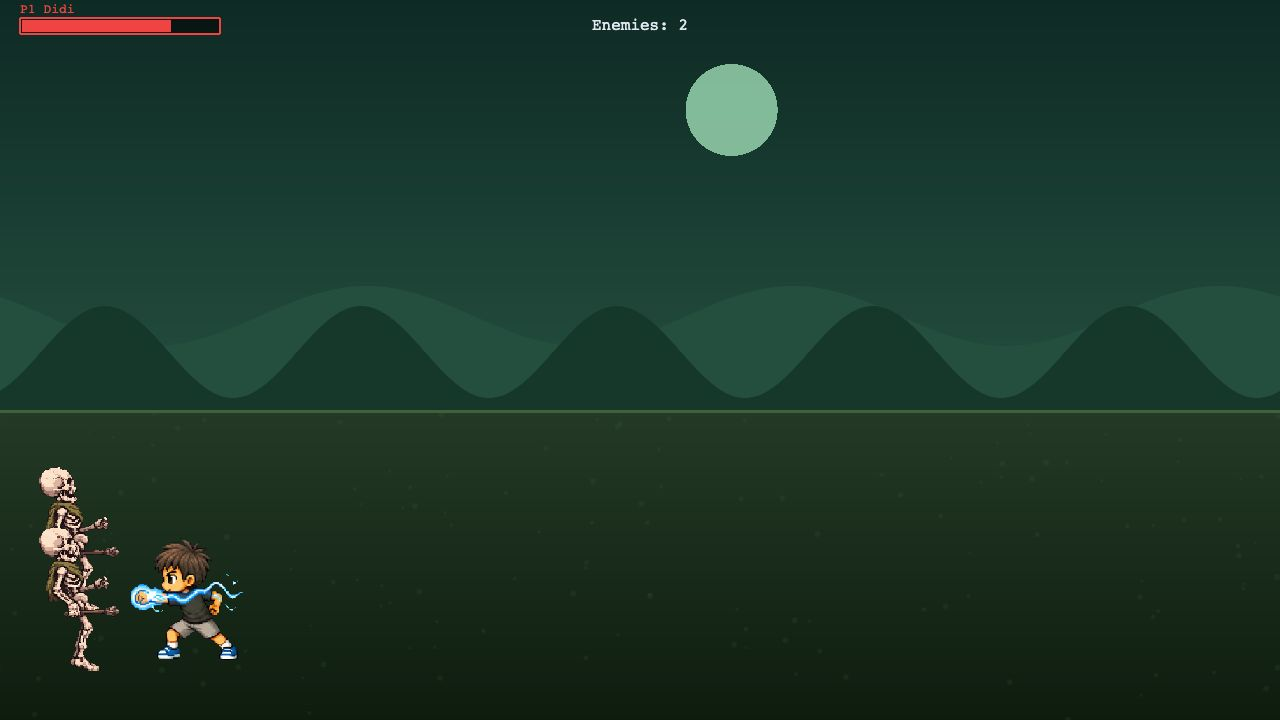
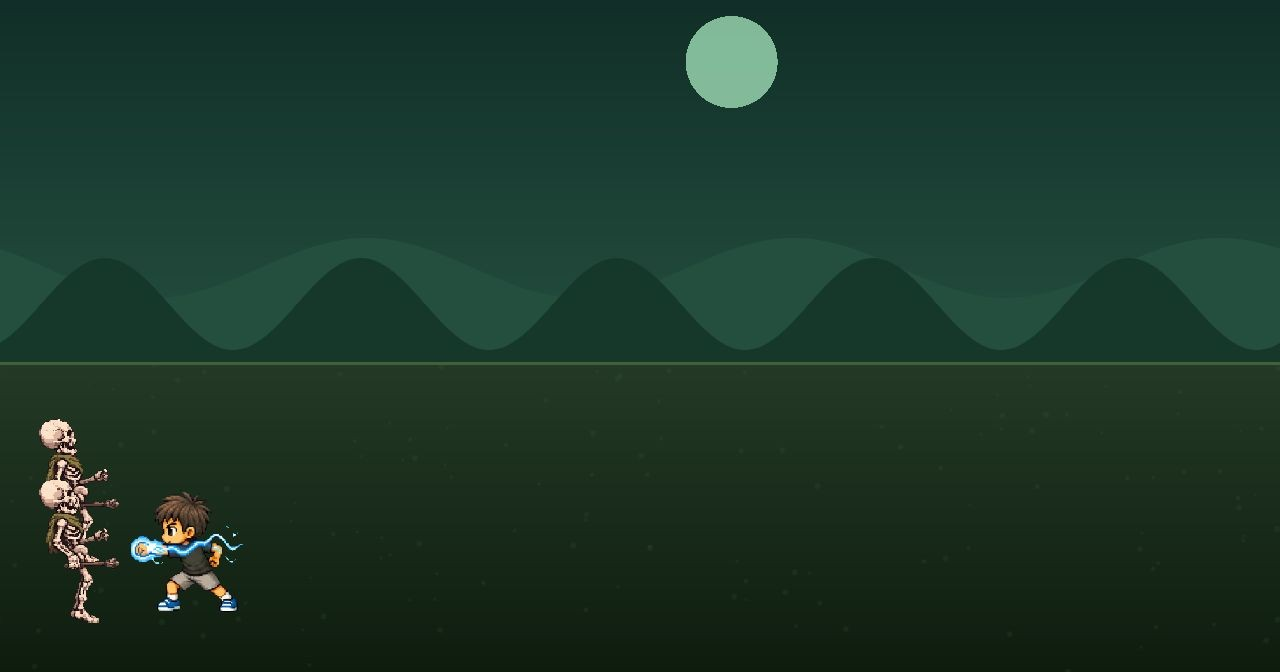
Game article: June screenshot, villain gallery, captions and a link to the game at the end

diff --git a/notes/permanent/fable-5-2-one-shotted-my-nephews-dream-game.md b/notes/permanent/fable-5-2-one-shotted-my-nephews-dream-game.md
@@ -2,7 +2,7 @@
 title: "Fable 5.2 One-Shotted My Nephew's Dream Game"
 slug: fable-5-2-one-shotted-my-nephews-dream-game
 date: 2026-11-10 06:50
-modified: 2026-11-10 08:30
+modified: 2026-11-10 09:20
 summary: "LLMs can make complete games that are fun, another insane milestone"
 cover: /_media/aidens-revenge/title.jpg
 category: essay
@@ -28,6 +28,8 @@ He had already drawn up the game design docs. There were to be 5 selectable hero
 At the time - around January 2026 - building an indie game from scratch was a pretty unreasonable ask for a birthday present, and I did warn him to temper his expectations. Still, I thought it would be a fun exercise to test the agentic tools at my disposal.
 
 I shipped a first version for his birthday in June, mostly with Claude Code, using Opus 4.8 and Fable 5. It worked, but it wasn't worth playing for more than a couple of minutes.
+
+<figure style="margin:1.5em 0"><a href="../_media/aidens-revenge/first-version-fight.jpg"><img src="../_media/aidens-revenge/first-version-fight.jpg" alt="The June version: a single hero fighting two skeletons on a plain green field" style="width:100%;height:auto;display:block;margin:0;border-radius:6px"></a><figcaption style="font-size:0.85em;text-align:center;margin-top:6px">The June version.</figcaption></figure>
 
 Aiden was appreciative, but it clearly wasn't the game he'd imagined.
 
@@ -119,21 +121,33 @@ The very last rescue is Tai Ma, their great-grandmother, who died earlier in the
 
 Here are a few of Aiden's drawings next to the sprites the incredible ChatGPT Images 2.5 made from them.
 
-**Uncle Lex**: "electric guitar".
+<figure style="margin:1.5em 0"><a href="../_media/aidens-revenge/hero-03-uncle-lex.jpg"><img src="../_media/aidens-revenge/hero-03-uncle-lex.jpg" alt="Aiden's drawing of Uncle Lex next to the Uncle Lex sprite" style="width:100%;height:auto;display:block;margin:0;border-radius:6px"></a><figcaption style="font-size:0.85em;text-align:center;margin-top:6px"><strong>Uncle Lex</strong>: "electric guitar".</figcaption></figure>
 
-![Aiden's drawing of Uncle Lex next to the Uncle Lex sprite](../_media/aidens-revenge/hero-03-uncle-lex.jpg)
+<figure style="margin:1.5em 0"><a href="../_media/aidens-revenge/hero-08-doggo.jpg"><img src="../_media/aidens-revenge/hero-08-doggo.jpg" alt="Aiden's drawing of Doggo next to the Doggo sprite" style="width:100%;height:auto;display:block;margin:0;border-radius:6px"></a><figcaption style="font-size:0.85em;text-align:center;margin-top:6px"><strong>Doggo </strong>(my dog): she bites, and the spiky tail is her kick.</figcaption></figure>
 
-**Doggo** (my dog): she bites, and the spiky tail is her kick.
+<figure style="margin:1.5em 0"><a href="../_media/aidens-revenge/battle-wagon.jpg"><img src="../_media/aidens-revenge/battle-wagon.jpg" alt="Aiden's drawing of the Battle Wagon next to the Battle Wagon sprite" style="width:100%;height:auto;display:block;margin:0;border-radius:6px"></a><figcaption style="font-size:0.85em;text-align:center;margin-top:6px"><strong>The Battle Wagon</strong>: the villains steal it, which kicks off the whole game. Claude also decided that it should be an occasional power-up, where you grab the horn and it drives across the screen. That works.</figcaption></figure>
 
-![Aiden's drawing of Doggo next to the Doggo sprite](../_media/aidens-revenge/hero-08-doggo.jpg)
+<figure style="margin:1.5em 0"><a href="../_media/aidens-revenge/boss-08-shellshock.jpg"><img src="../_media/aidens-revenge/boss-08-shellshock.jpg" alt="Aiden's drawing of the 8th villain next to the Shellshock sprite" style="width:100%;height:auto;display:block;margin:0;border-radius:6px"></a><figcaption style="font-size:0.85em;text-align:center;margin-top:6px"><strong>8th: Shellshock</strong>. Aiden numbered his villains 1st to 12th, and the game uses that as the boss order.</figcaption></figure>
 
-**The Battle Wagon**: the villains steal it, which kicks off the whole game. Claude also decided that it should be an occasional power-up, where you grab the horn and it drives across the screen. That works.
+<details markdown="1">
+<summary>All 12 villains, drawing by sprite</summary>
 
-![Aiden's drawing of the Battle Wagon next to the Battle Wagon sprite](../_media/aidens-revenge/battle-wagon.jpg)
+<div style="display:grid;grid-template-columns:repeat(auto-fit,minmax(260px,1fr));gap:12px;margin:1em 0">
+<figure style="margin:0"><a href="../_media/aidens-revenge/boss-01-dogslayer.jpg"><img src="../_media/aidens-revenge/boss-01-dogslayer.jpg" alt="Aiden's drawing of his 1st villain next to the Dog Slayer sprite" loading="lazy" style="width:100%;height:auto;display:block;margin:0;border-radius:6px"></a><figcaption style="font-size:0.85em;text-align:center;margin-top:6px">1st: Dog Slayer</figcaption></figure>
+<figure style="margin:0"><a href="../_media/aidens-revenge/boss-02-rammox.jpg"><img src="../_media/aidens-revenge/boss-02-rammox.jpg" alt="Aiden's drawing of his 2nd villain next to the Rammox sprite" loading="lazy" style="width:100%;height:auto;display:block;margin:0;border-radius:6px"></a><figcaption style="font-size:0.85em;text-align:center;margin-top:6px">2nd: Rammox</figcaption></figure>
+<figure style="margin:0"><a href="../_media/aidens-revenge/boss-03-blazimp.jpg"><img src="../_media/aidens-revenge/boss-03-blazimp.jpg" alt="Aiden's drawing of his 3rd villain next to the Blazimp sprite" loading="lazy" style="width:100%;height:auto;display:block;margin:0;border-radius:6px"></a><figcaption style="font-size:0.85em;text-align:center;margin-top:6px">3rd: Blazimp</figcaption></figure>
+<figure style="margin:0"><a href="../_media/aidens-revenge/boss-04-bullzerk.jpg"><img src="../_media/aidens-revenge/boss-04-bullzerk.jpg" alt="Aiden's drawing of his 4th villain next to the Bullzerk sprite" loading="lazy" style="width:100%;height:auto;display:block;margin:0;border-radius:6px"></a><figcaption style="font-size:0.85em;text-align:center;margin-top:6px">4th: Bullzerk</figcaption></figure>
+<figure style="margin:0"><a href="../_media/aidens-revenge/boss-05-beedrill.jpg"><img src="../_media/aidens-revenge/boss-05-beedrill.jpg" alt="Aiden's drawing of his 5th villain next to the Beedrill sprite" loading="lazy" style="width:100%;height:auto;display:block;margin:0;border-radius:6px"></a><figcaption style="font-size:0.85em;text-align:center;margin-top:6px">5th: Beedrill</figcaption></figure>
+<figure style="margin:0"><a href="../_media/aidens-revenge/boss-06-quadpunch.jpg"><img src="../_media/aidens-revenge/boss-06-quadpunch.jpg" alt="Aiden's drawing of his 6th villain next to the Quadpunch sprite" loading="lazy" style="width:100%;height:auto;display:block;margin:0;border-radius:6px"></a><figcaption style="font-size:0.85em;text-align:center;margin-top:6px">6th: Quadpunch</figcaption></figure>
+<figure style="margin:0"><a href="../_media/aidens-revenge/boss-07-scowl.jpg"><img src="../_media/aidens-revenge/boss-07-scowl.jpg" alt="Aiden's drawing of his 7th villain next to the Sensei Scowl sprite" loading="lazy" style="width:100%;height:auto;display:block;margin:0;border-radius:6px"></a><figcaption style="font-size:0.85em;text-align:center;margin-top:6px">7th: Sensei Scowl</figcaption></figure>
+<figure style="margin:0"><a href="../_media/aidens-revenge/boss-08-shellshock.jpg"><img src="../_media/aidens-revenge/boss-08-shellshock.jpg" alt="Aiden's drawing of his 8th villain next to the Shellshock sprite" loading="lazy" style="width:100%;height:auto;display:block;margin:0;border-radius:6px"></a><figcaption style="font-size:0.85em;text-align:center;margin-top:6px">8th: Shellshock</figcaption></figure>
+<figure style="margin:0"><a href="../_media/aidens-revenge/boss-09-corvax.jpg"><img src="../_media/aidens-revenge/boss-09-corvax.jpg" alt="Aiden's drawing of his 9th villain next to the Corvax sprite" loading="lazy" style="width:100%;height:auto;display:block;margin:0;border-radius:6px"></a><figcaption style="font-size:0.85em;text-align:center;margin-top:6px">9th: Corvax</figcaption></figure>
+<figure style="margin:0"><a href="../_media/aidens-revenge/boss-10-shade.jpg"><img src="../_media/aidens-revenge/boss-10-shade.jpg" alt="Aiden's drawing of his 10th villain next to the Shade sprite" loading="lazy" style="width:100%;height:auto;display:block;margin:0;border-radius:6px"></a><figcaption style="font-size:0.85em;text-align:center;margin-top:6px">10th: Shade</figcaption></figure>
+<figure style="margin:0"><a href="../_media/aidens-revenge/boss-11-goldfist.jpg"><img src="../_media/aidens-revenge/boss-11-goldfist.jpg" alt="Aiden's drawing of his 11th villain next to the Goldfist sprite" loading="lazy" style="width:100%;height:auto;display:block;margin:0;border-radius:6px"></a><figcaption style="font-size:0.85em;text-align:center;margin-top:6px">11th: Goldfist</figcaption></figure>
+<figure style="margin:0"><a href="../_media/aidens-revenge/boss-12-crocoking.jpg"><img src="../_media/aidens-revenge/boss-12-crocoking.jpg" alt="Aiden's drawing of his 12th villain next to the CrocoKing sprite" loading="lazy" style="width:100%;height:auto;display:block;margin:0;border-radius:6px"></a><figcaption style="font-size:0.85em;text-align:center;margin-top:6px">12th: CrocoKing</figcaption></figure>
+</div>
 
-**8th: Shellshock**. Aiden numbered his villains 1st to 12th, and the game uses that as the boss order.
-
-![Aiden's drawing of the 8th villain next to the Shellshock sprite](../_media/aidens-revenge/boss-08-shellshock.jpg)
+</details>
 
 ## The final token tally
 
@@ -147,6 +161,8 @@ The final token tally looked something like this:
 
 So, call it 340M tokens for a 12-level, 18-character, four-player beat 'em up with original art, music and an announcer who shouts everyone's name.
 
-## Conclusion
+## A pretty wild milestone
 
 I must admit I never tested this with Opus 5.5, so I'm not sure whether this was possible before Fable 5.2 rolled around. Still, whether it's thanks to this generation or the last, this is a pretty wild milestone. Claude Code with Fable 5.2 is capable of making entire 12-level *fun* games - in one shot.
+
+<figure style="margin:1.5em 0"><a href="https://aidens-revenge.netlify.app/"><img src="../_media/aidens-revenge/title.jpg" alt="The Aiden's Revenge key art: the family heroes, Doggo and three of the villains under a stormy sky" style="width:100%;height:auto;display:block;margin:0;border-radius:6px"></a><figcaption style="font-size:0.85em;text-align:center;margin-top:6px"><a href="https://aidens-revenge.netlify.app/">Try it yourself</a>.</figcaption></figure>
